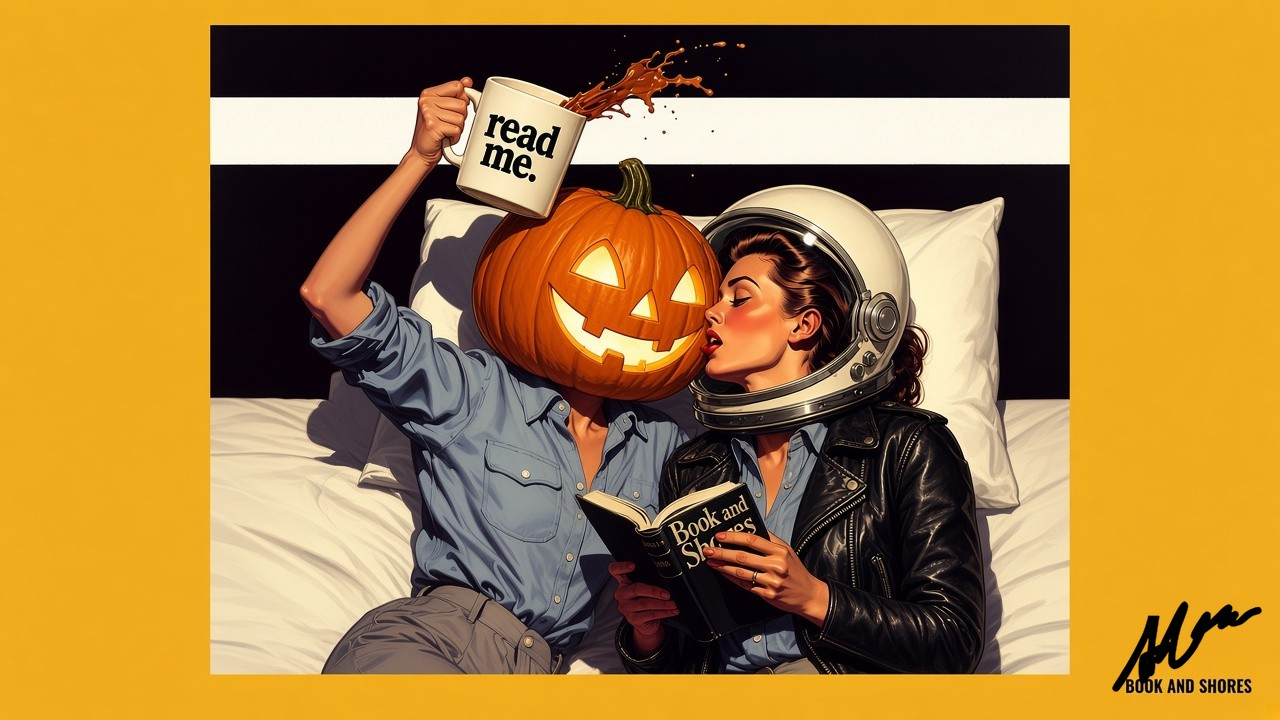
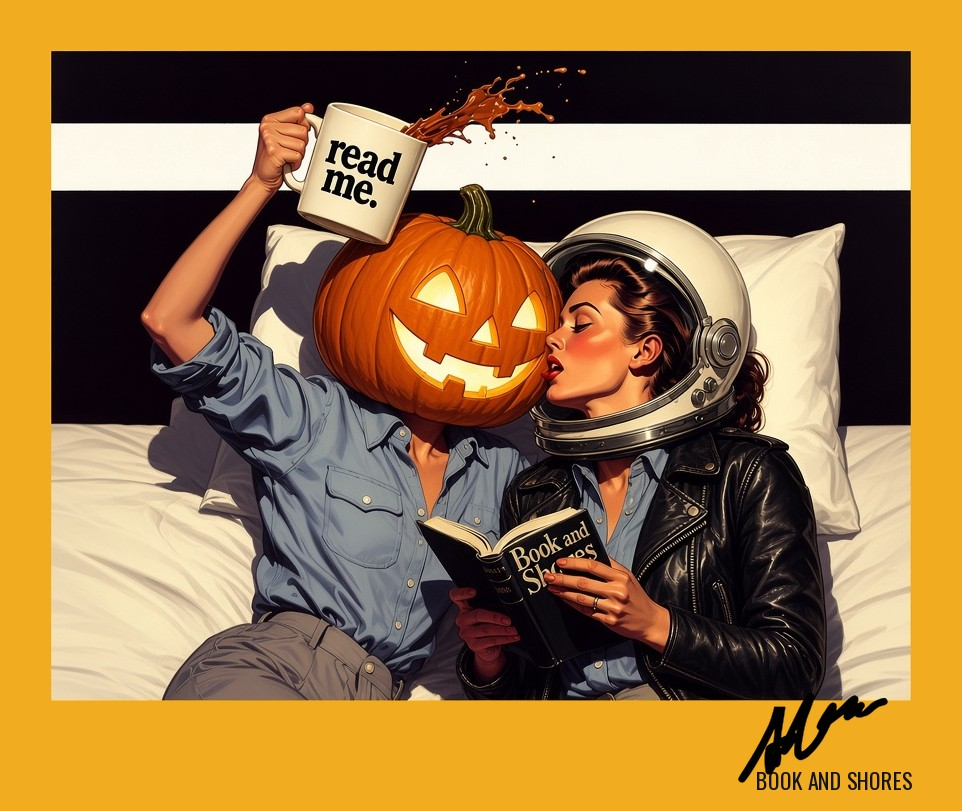
Weekly Reads: tight frame on Halloween illustration, signature in the corner

diff --git a/index.html b/index.html
@@ -423,7 +423,7 @@
             </div>
             <!-- B&S: this week's original Book & Shores illustration (signed AE), framed like the cover cards -->
             <figure style="margin: 1.6rem auto 2.4rem; max-width: min(460px, 92%); text-align: center;">
-                <img src="weekly-halloween-illustration.jpg" width="1280" height="720" loading="lazy" alt="Book &amp; Shores Halloween illustration: a jack-o'-lantern-headed reader splashes a read me. mug while a pin-up in a space helmet kisses the pumpkin and reads Book and Shores in bed" style="display: block; width: 100%; height: auto; border: 4px solid var(--black); border-radius: 8px; box-shadow: 0 8px 24px rgba(0,0,0,0.22);">
+                <img src="weekly-halloween-illustration.jpg" width="962" height="811" loading="lazy" alt="Book &amp; Shores Halloween illustration: a jack-o'-lantern-headed reader splashes a read me. mug while a pin-up in a space helmet kisses the pumpkin and reads Book and Shores in bed" style="display: block; width: 100%; height: auto; border: 4px solid var(--black); border-radius: 8px; box-shadow: 0 8px 24px rgba(0,0,0,0.22);">
             </figure>
             <!-- B&S: four picks this week, so the grid fits four across on desktop -->
             <div class="books-grid" id="weekly-grid" style="grid-template-columns: repeat(auto-fit, minmax(200px, 1fr));">
